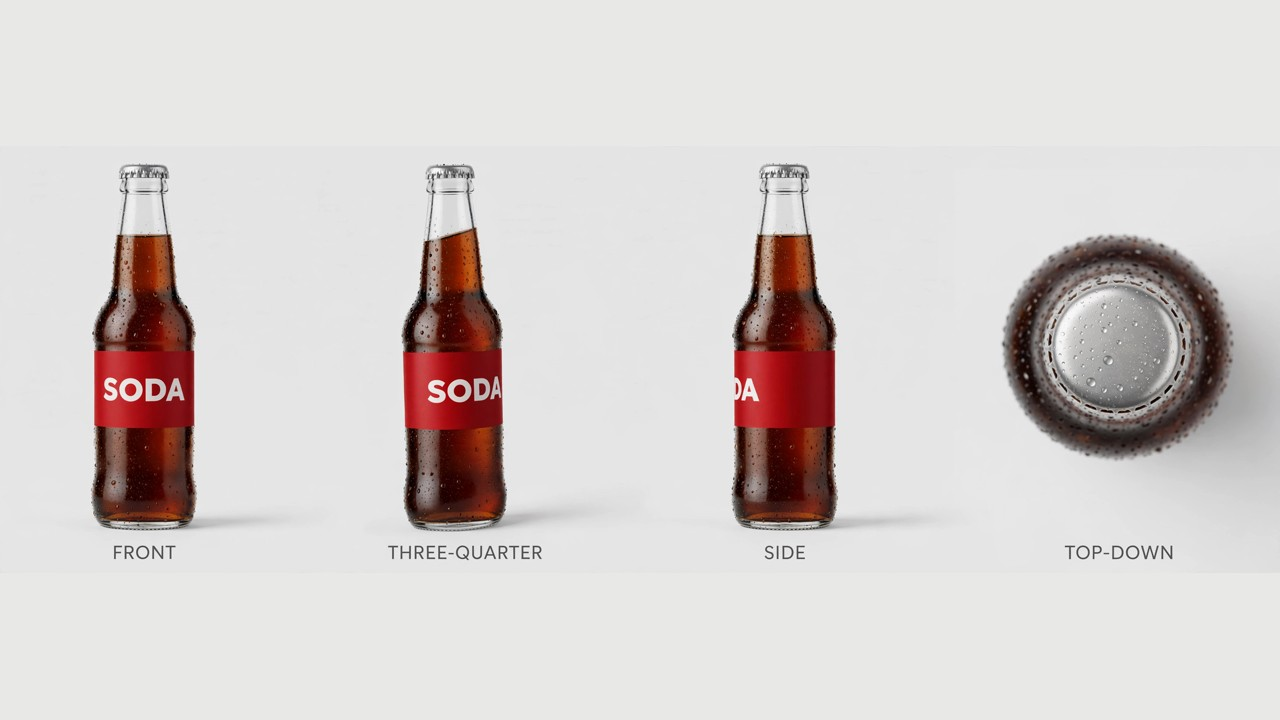
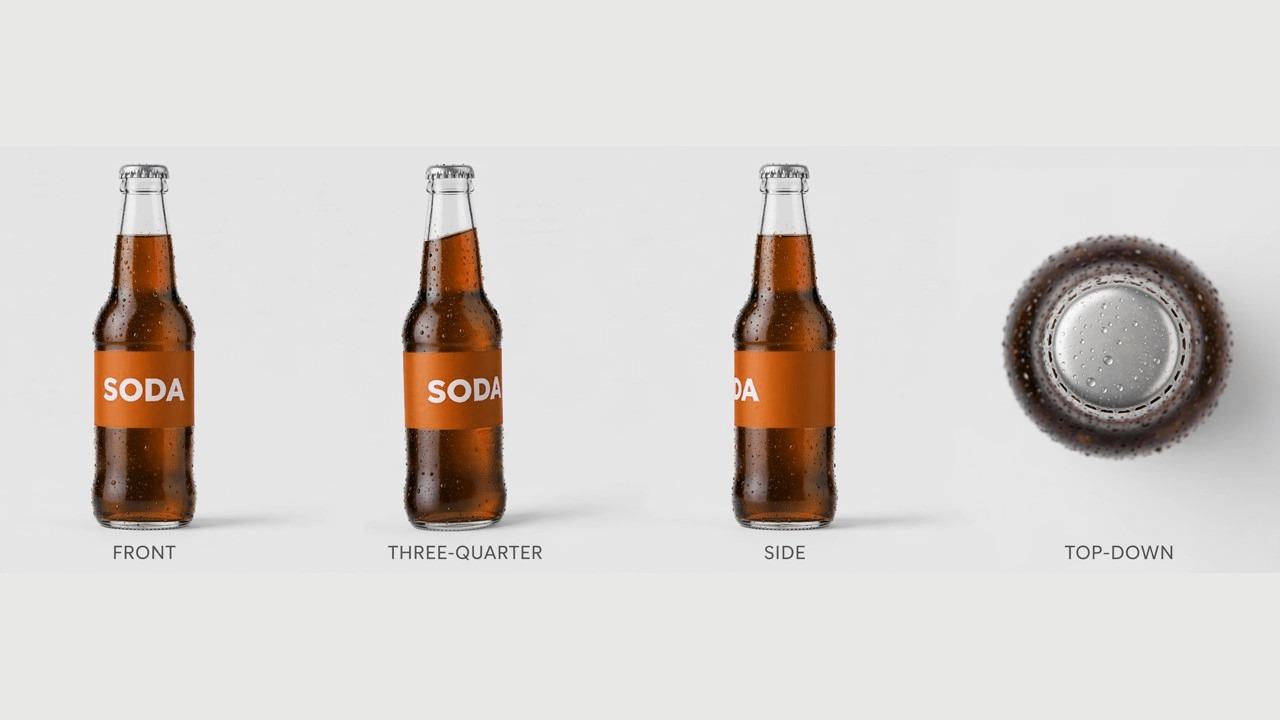
Original music for the Meta product films; fan-moments default can is tangerine
own_score.py synthesizes a score on each old score's tempo and bar grid (no samples,
no source melody); every film's own build was re-run, picture bit-identical.

Changed region(s): [[0.5625, 0.3361, 0.6562, 0.7333], [0.0625, 0.3361, 0.1562, 0.7333], [0.3125, 0.3361, 0.4062, 0.7333]]

diff --git a/docs/pitch/own_score.py b/docs/pitch/own_score.py
@@ -1,0 +1,202 @@
+#!/usr/bin/env python3
+"""Write an original score (synthesized here, no samples, no source melody) on the grid of an existing score.
+
+    python3 docs/pitch/own_score.py SRC.wav OUT.wav PRESET [--bpm N] [--bar0 S]
+
+Tempo and first bar come from `bin/template beats`-style detection passed in (--bpm, --bar0), so cuts made
+on the old score's bars still land on bars. The loudness envelope of SRC is followed (300 ms window), so the
+new score drops out, builds and ends where the old one did, at the same loudness; nothing else is taken.
+Presets: pop quirky electro cinematic darkdrive anthem warm folk.
+"""
+import argparse, subprocess, sys, wave
+import numpy as np
+
+SR = 48000
+ap = argparse.ArgumentParser()
+ap.add_argument("src"); ap.add_argument("out"); ap.add_argument("preset")
+ap.add_argument("--bpm", type=float, required=True); ap.add_argument("--bar0", type=float, default=0.0)
+ap.add_argument("--seed", type=int, default=7)
+a = ap.parse_args()
+rng = np.random.default_rng(a.seed)
+
+
+def load(p):
+    raw = subprocess.run(["ffmpeg", "-v", "error", "-i", p, "-f", "f32le", "-ac", "2", "-ar", str(SR), "-"],
+                         capture_output=True, check=True).stdout
+    return np.frombuffer(raw, np.float32).reshape(-1, 2).astype(np.float64)
+
+
+src = load(a.src); N = len(src); T = N / SR
+out = np.zeros((N, 2))
+beat = 60.0 / a.bpm; bar = 4 * beat
+t0 = a.bar0 - bar * np.ceil(a.bar0 / bar)  # first bar start at or before 0
+
+
+def note_hz(m): return 440.0 * 2 ** ((m - 69) / 12)
+
+
+def add(sig, at, pan=0.0, g=1.0):
+    i = int(round(at * SR))
+    if i >= N or i + len(sig) <= 0: return
+    s0 = max(0, -i); sig = sig[s0:]; i += s0
+    sig = sig[:N - i]
+    out[i:i + len(sig), 0] += sig * g * np.sqrt(0.5 * (1 - pan))
+    out[i:i + len(sig), 1] += sig * g * np.sqrt(0.5 * (1 + pan))
+
+
+def env(n, att, dec):  # attack seconds, exponential decay time constant seconds
+    t = np.arange(n) / SR
+    return np.minimum(1, t / max(att, 1e-4)) * np.exp(-t / dec)
+
+
+def additive(f, dur, partials, att=0.005, dec=0.5, detune=0.0):
+    n = int(dur * SR); t = np.arange(n) / SR; s = np.zeros(n)
+    for k, (mult, amp, d) in enumerate(partials):
+        if f * mult > 16000: break
+        ph = rng.uniform(0, 2 * np.pi)
+        s += amp * np.sin(2 * np.pi * f * mult * (1 + detune * (k % 3 - 1)) * t + ph) * np.exp(-t / (dec * d))
+    return s * np.minimum(1, t / att)
+
+
+def keys(f, dur): return additive(f, dur, [(1, 1, 1), (2, .45, .6), (3, .2, .4), (4, .12, .3), (5, .06, .2)], .004, .9)
+def pluck(f, dur): return additive(f, dur, [(1, 1, 1), (2, .6, .5), (3, .35, .35), (4, .2, .25), (6, .08, .15)], .002, .35)
+def pizz(f, dur): return additive(f, dur, [(1, 1, 1), (2, .4, .5), (3, .15, .3)], .003, .12)
+def bell(f, dur): return additive(f, dur, [(1, 1, 1), (2.76, .4, .5), (5.4, .2, .3), (8.93, .1, .2)], .002, 1.2)
+
+
+def pad(f, dur):
+    n = int(dur * SR); t = np.arange(n) / SR; s = np.zeros(n)
+    for det in (-0.006, 0, 0.0055):
+        for h in range(1, 9):  # band-limited soft saw
+            if f * h > 9000: break
+            s += np.sin(2 * np.pi * f * (1 + det) * h * t + rng.uniform(0, 6.3)) / h ** 1.6
+    a_, r_ = min(0.6, dur / 3), min(0.8, dur / 3)
+    e = np.minimum(1, t / a_) * np.minimum(1, (dur - t) / r_)
+    return s * e * 0.25
+
+
+def bass(f, dur, short=False):
+    n = int(dur * SR); t = np.arange(n) / SR
+    s = np.sin(2 * np.pi * f * t) + 0.3 * np.sin(4 * np.pi * f * t) + 0.12 * np.sin(6 * np.pi * f * t)
+    e = np.minimum(1, t / 0.004) * (np.exp(-t / 0.18) if short else np.minimum(1, (dur - t) / 0.03).clip(0))
+    return s * e
+
+
+def kick(g=1.0):
+    n = int(0.45 * SR); t = np.arange(n) / SR
+    f = 45 + 95 * np.exp(-t / 0.035)
+    return np.sin(2 * np.pi * np.cumsum(f) / SR) * np.exp(-t / 0.16) * g
+
+
+def noise(n): return rng.standard_normal(n)
+
+
+def hp(x, k=1): return np.diff(x, n=k, prepend=np.zeros(k))
+
+
+SNARE = None
+def snare():
+    global SNARE
+    if SNARE is None:
+        n = int(0.25 * SR); t = np.arange(n) / SR
+        SNARE = hp(noise(n)) * 0.5 * np.exp(-t / 0.06) + 0.5 * np.sin(2 * np.pi * 185 * t) * np.exp(-t / 0.04)
+    return SNARE
+
+
+def hat(open_=False):
+    n = int((0.3 if open_ else 0.06) * SR); t = np.arange(n) / SR
+    return hp(noise(n), 2) * 0.25 * np.exp(-t / (0.09 if open_ else 0.015))
+
+
+def tom(f):
+    n = int(0.4 * SR); t = np.arange(n) / SR
+    return np.sin(2 * np.pi * np.cumsum(f * (1 + 0.5 * np.exp(-t / 0.05))) / SR) * np.exp(-t / 0.15)
+
+
+def block():
+    n = int(0.08 * SR); t = np.arange(n) / SR
+    return (np.sin(2 * np.pi * 820 * t) + .4 * np.sin(2 * np.pi * 1730 * t)) * np.exp(-t / 0.018)
+
+
+# key root (MIDI), chord progression as scale-degree triads in semitones from the root
+MAJ = [[0, 4, 7], [7, 11, 14], [9, 12, 16], [5, 9, 12]]          # I V vi IV
+MIN = [[0, 3, 7], [8, 12, 15], [3, 7, 10], [10, 14, 17]]         # i VI III VII
+WARM = [[0, 4, 7, 11], [9, 12, 16, 19], [5, 9, 12, 16], [7, 11, 14, 17]]  # Imaj7 vi7 IVmaj7 V
+P = {
+    "pop":        dict(root=60, prog=MAJ, drums="pop", lead=pluck, arp=8, bassmode="eighth", padg=.35),
+    "quirky":     dict(root=65, prog=MAJ, drums="quirky", lead=pizz, arp=4, bassmode="half", padg=.0),
+    "electro":    dict(root=57, prog=MIN, drums="four", lead=pluck, arp=16, bassmode="pulse", padg=.55),
+    "cinematic":  dict(root=50, prog=MIN, drums="sparse", lead=bell, arp=2, bassmode="whole", padg=.8),
+    "darkdrive":  dict(root=52, prog=MIN, drums="drive", lead=pluck, arp=8, bassmode="pulse16", padg=.5),
+    "anthem":     dict(root=62, prog=MAJ, drums="anthem", lead=keys, arp=4, bassmode="eighth", padg=.6),
+    "warm":       dict(root=58, prog=WARM, drums="shaker", lead=keys, arp=4, bassmode="half", padg=.35, bells=True),
+    "folk":       dict(root=55, prog=MAJ, drums="none", lead=pluck, arp=8, bassmode="half", padg=.45),
+}[a.preset]
+
+r = P["root"]; nbar = int(np.ceil((T - t0) / bar)) + 1
+for b in range(nbar):
+    bs = t0 + b * bar
+    ch = P["prog"][b % 4]
+    # pad: the chord across the bar, an octave below
+    if P["padg"]:
+        for k, iv in enumerate(ch):
+            add(pad(note_hz(r - 12 + iv), bar + 0.4), bs, pan=(k - 1) * 0.4, g=P["padg"] * 0.5)
+    # arpeggio / chord hits
+    steps = P["arp"]; step = bar / steps
+    for s in range(steps):
+        if P["lead"] is keys and s % 2: continue
+        notes = [ch[s % len(ch)] + 12 * ((s // len(ch)) % 2)] if P["lead"] is not keys else ch
+        for iv in notes:
+            add(P["lead"](note_hz(r + iv), min(1.6, step * 3)), bs + s * step,
+                pan=0.3 * np.sin(s), g=(0.32 if P["lead"] is not keys else 0.22) * (1.0 if s % 4 == 0 else 0.8))
+    if P.get("bells") and b % 2 == 0:
+        add(bell(note_hz(r + 24 + ch[-1]), 2.5), bs + 2 * beat, pan=0.4, g=0.12)
+    # bass
+    bm, root_hz = P["bassmode"], note_hz(r - 24 + ch[0])
+    if bm == "whole": add(bass(root_hz, bar), bs, g=0.5)
+    elif bm == "half":
+        for h in range(2): add(bass(root_hz, 2 * beat), bs + h * 2 * beat, g=0.45)
+    elif bm == "eighth":
+        for e in range(8): add(bass(root_hz, beat / 2), bs + e * beat / 2, g=0.4)
+    elif bm == "pulse":
+        for e in range(8): add(bass(root_hz, beat / 2, short=True), bs + e * beat / 2, g=0.5)
+    elif bm == "pulse16":
+        for e in range(16): add(bass(root_hz, beat / 4, short=True), bs + e * beat / 4, g=0.42)
+    # drums
+    d = P["drums"]
+    for q in range(4):
+        bt = bs + q * beat
+        if d in ("four", "drive", "pop"): add(kick(), bt, g=0.8)
+        if d == "anthem" and q in (0, 2): add(kick(1.0), bt, g=0.9)
+        if d == "sparse" and q == 0: add(kick(), bt, g=0.7)
+        if d == "quirky" and q in (0, 2): add(kick(), bt, g=0.45)
+        if d in ("pop", "drive", "anthem", "four") and q in (1, 3): add(snare(), bt, g=0.55 if d != "four" else 0.35)
+        if d in ("pop", "four", "drive"): add(hat(), bt + beat / 2, pan=0.3, g=0.6)
+        if d == "four":
+            for s16 in (1, 3): add(hat(), bt + s16 * beat / 4, pan=-0.3, g=0.3)
+        if d == "quirky": add(block(), bt + beat / 2, pan=0.4, g=0.25)
+        if d == "shaker":
+            for e in range(2): add(hat(), bt + e * beat / 2, pan=0.2, g=0.35 if e else 0.2)
+    if d == "anthem" and b % 4 == 3:
+        for k, f in enumerate((180, 140, 110, 90)): add(tom(f), bs + 3 * beat + k * beat / 4, g=0.6)
+
+# room: short stereo echo for width
+dly = int(0.23 * SR); wet = np.zeros_like(out); wet[dly:, 0] = out[:-dly, 1]; wet[dly:, 1] = out[:-dly, 0]
+out += 0.18 * wet
+
+
+def rms_env(x, win=0.3):
+    m = (x ** 2).mean(1); k = int(win * SR)
+    c = np.cumsum(np.concatenate([[0], m])); e = np.sqrt(np.maximum((c[k:] - c[:-k]) / k, 0))
+    return np.concatenate([np.full(k // 2, e[0]), e, np.full(len(m) - len(e) - k // 2, e[-1])])
+
+
+es, eo = rms_env(src), rms_env(out)
+g = np.clip(es / np.maximum(eo, 1e-5), 0, 6)
+out *= g[:, None]
+out *= min(1.0, 0.89 / max(np.abs(out).max(), 1e-9))
+fade = int(0.01 * SR); out[:fade] *= np.linspace(0, 1, fade)[:, None]
+with wave.open(a.out, "wb") as w:
+    w.setnchannels(2); w.setsampwidth(2); w.setframerate(SR)
+    w.writeframes((np.clip(out, -1, 1) * 32767).astype("<i2").tobytes())
+print(f"{a.out}: {T:.2f} s, {a.bpm} bpm, bar0 {a.bar0}, preset {a.preset}")

diff --git a/sandbox/templates/fan-moments/draw_ui.py b/sandbox/templates/fan-moments/draw_ui.py
@@ -6,7 +6,7 @@ d = sys.argv[1]
 BRAND = sys.argv[2] if len(sys.argv) > 2 else "SODA"
 TAG = sys.argv[3] if len(sys.argv) > 3 else "Feel the rush with"
 PARTNER = sys.argv[4] if len(sys.argv) > 4 else "FOR EVERY FAN"
-COL = sys.argv[5] if len(sys.argv) > 5 else "#B5121B"
+COL = sys.argv[5] if len(sys.argv) > 5 else "#D46D28"
 serif, sans = f"{d}/font_serif.ttf", f"{d}/font_sans.ttf"
 W, H = 1920, 1080
 

diff --git a/sandbox/templates/fan-moments/TEMPLATE.md b/sandbox/templates/fan-moments/TEMPLATE.md
@@ -2,7 +2,7 @@
 
 **The film.** A 30-second soft-drink spot for a 2026 football tournament, 25 shots (average 1.20 s), letterboxed 1.85:1. A veteran commentator in a booth says "This is quite a game." Fans everywhere grip the drink and wait: an older man at home, green-nailed hands in a bar, two old men at a terrace table, a young man praying over his can. A whistle blows: "It'll be a free kick." The can is open, goosebumps rise, and then time stops inside the drink. A bubble drifts away in the dark, fizz rises, a single drop falls into a glass, and the sound drains to near silence for four seconds. The drop lands and everything slams back at once. A pupil snaps shut, and "Oh, what a goal!" plays over screams, roars, toasts, a bottle spraying foam, a can poured over a head, and bottles clinking at sunset ("Ecstasy, euphoria!"). Then the emotion overflows: a droplet running down the bottle cuts to a tear running down a cheek ("And emotion overflows."), a woman by the sea drinks with her eyes closed, the tagline comes up, and the can sinks under the brand lockup.
 
-The drink is a **generic soft drink** ({BRAND}, default "SODA"): a deep red can (#B5121B) and a straight-walled clear glass bottle with a red label band, each carrying a plain white bold sans wordmark. All cast are invented people (`set/char_*_sheet.png`).
+The drink is a **generic soft drink** ({BRAND}, default "SODA"): a tangerine-orange can (#D46D28) and a straight-walled clear glass bottle with an orange label band, each carrying a plain white bold sans wordmark. All cast are invented people (`set/char_*_sheet.png`).
 
 ## Arc (source = cut30)
 | Act | Time | Shots | What it does |
@@ -18,7 +18,7 @@ The drink is a **generic soft drink** ({BRAND}, default "SODA"): a deep red can 
 2. **Every person is touching the drink.** Before the goal, every fan shot shows a can or bottle held, gripped or prayed over, and nobody drinks. The drinking happens only at the end (s23-s24).
 3. **Bodies react like the drink.** Goosebumps match the fizz, a pupil snaps as the drop lands, and a tear matches the condensation droplet (s21 cut to s22). Match the textures.
 4. **The held breath is the film.** For 4 s (s09-s11) the sound drains to near silence over macro shots in near-black (11-17 of 255). The drop lands at 14.00 and the full mix slams in at 14.04. Keep that sync in every cut.
-5. **Dark before, light after.** Before the goal: interiors at 30-64 of 255, warm practicals, teal shadows. After it: sun, street and sunset at 66-149. The only saturated colour is the product red.
+5. **Dark before, light after.** Before the goal: interiors at 30-64 of 255, warm practicals, teal shadows. After it: sun, street and sunset at 66-149. The only saturated colour is the product orange.
 6. **Fast and short.** Shots run 0.46-2.38 s with hard cuts only: no dissolves, no speed ramps (the slow motion is in camera), and no supers until the tagline.
 7. **Close and shallow.** Mostly close-ups and macros on long lenses. Only s14, s19 and s20 open up to medium wide, and those are handheld.
 

diff --git a/docs/studio/NEXT.md b/docs/studio/NEXT.md
@@ -24,8 +24,9 @@ Next:
    `compare/sbs.sh` -> review -> `python3 docs/pitch/publish_template.py <id>` ->
    `python3 docs/pitch/add_to_catalog.py lab/pitch/catalog/<id>.json` -> commit. travel-escape's line
    clips have the default names muted; check the rebuild voiced them.
-2. Before any public use: replace the template scores in the Meta product films; change fan-moments' red
-   can default.
+2. Done 2026-11-01 evening: the Meta product films and the reel carry original synthesized music
+   (`docs/pitch/own_score.py`, see docs/pitch/README.md); fan-moments' default drink is now a tangerine
+   can (#D46D28, product sheets hue-shifted, end card redrawn). Its proof video still shows the red can.
 3. Studio open item below (show "working in the background" after `turn/foregroundCompleted`).
 4. Muse later, once the Opus flow is the reference.
 
@@ -62,7 +63,7 @@ authored by Opus and rebuilt blind at 30 s and 15 s. Three more were authored (t
 telenovela-glam in `lab/replicate/author-*`) but not seeded: the Colab G4 went away at ~06:40, so their
 blind rebuilds are stills only. Re-run their `jobs/*.jsonl` on a new box, rebuild, then publish.
 Ten Meta product films were made from the templates as examples (`public/templates/examples/`, local
-only: they still use the templates' scores). Lessons:
+only; original synthesized music since 2026-11-01 evening). Lessons:
 - Rebuild agents sometimes end their turn while `bin/h3` renders are still queued; the clips finish on the
   box. Recover with `bin/h3 resume` in the workspace, then hand the assembly to a fresh agent (the
   workspace's notes/ and work/ scripts carry the plan).

diff --git a/docs/pitch/README.md b/docs/pitch/README.md
@@ -84,7 +84,13 @@ followed in about 1 h. Per-template numbers: `lab/pitch/RUN.md` (local).
 
 ## What's local only
 
-Proof videos (`public/templates/proof/`), the Meta product examples (`public/templates/examples/`, they
-still use the templates' scores, which must be replaced before public use), the source films (`sandbox/references/`) and source audio in
+Proof videos (`public/templates/proof/`), the source films (`sandbox/references/`) and source audio in
 templates (score, lines) are not in git: they contain other companies' footage and music. The hook video
 and landing images use Meta's own films only.
+
+The Meta product examples (`public/templates/examples/`, local only for size) and
+`lab/pitch/meta_products_reel.mp4` carry original music: `docs/pitch/own_score.py` synthesizes a score
+(no samples, no source melody) on the old score's tempo and bar grid and follows its loudness envelope,
+so every cut still lands on a bar. Each film's original build was re-run with it; the picture is
+bit-identical. The template-score versions are kept next to them as `final/*.orig.mp4` in each
+`lab/replicate/fill-*` workspace. The proof videos still show the real ads, so show them live only.
